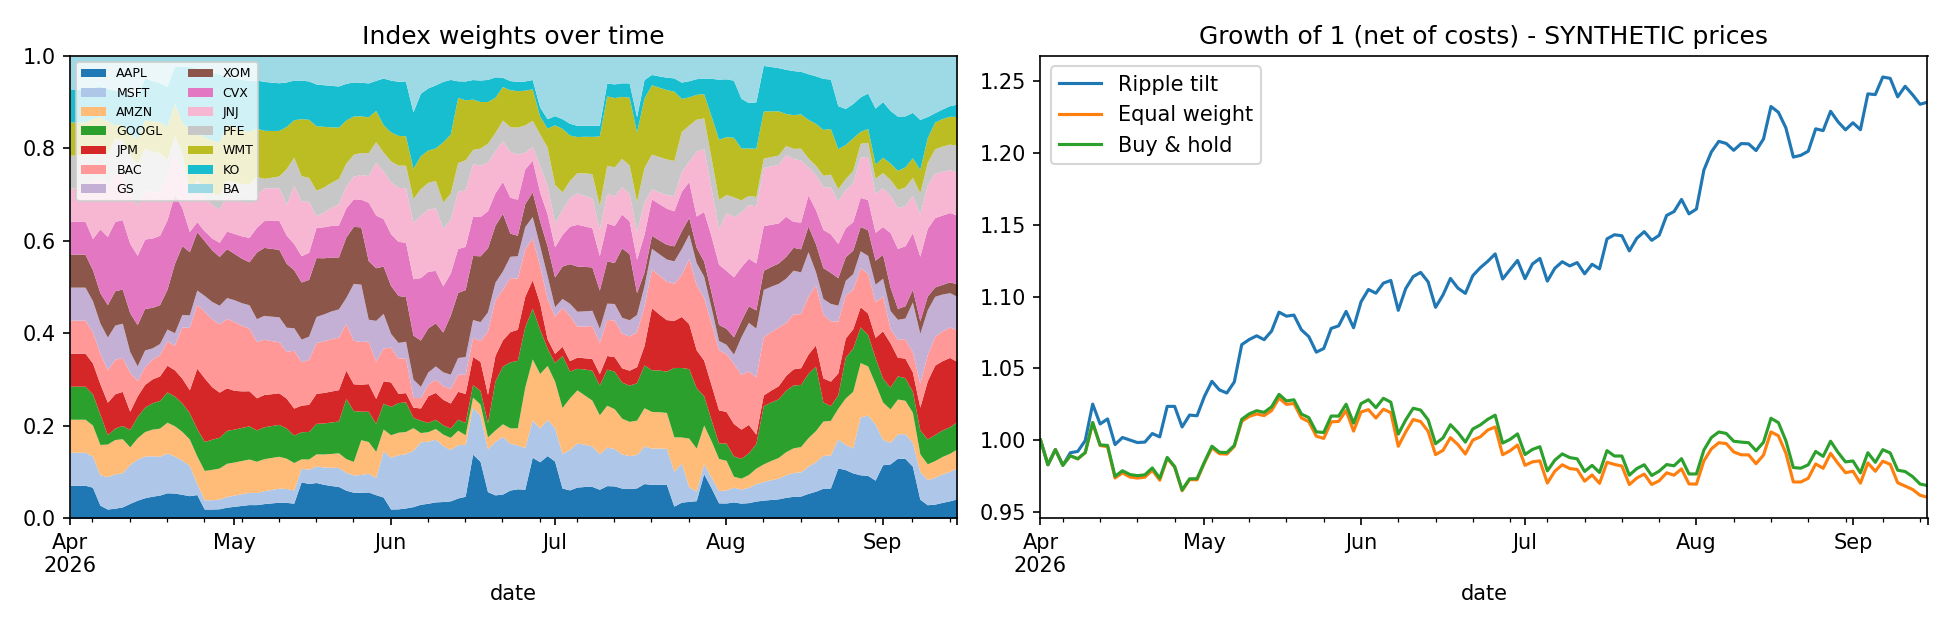
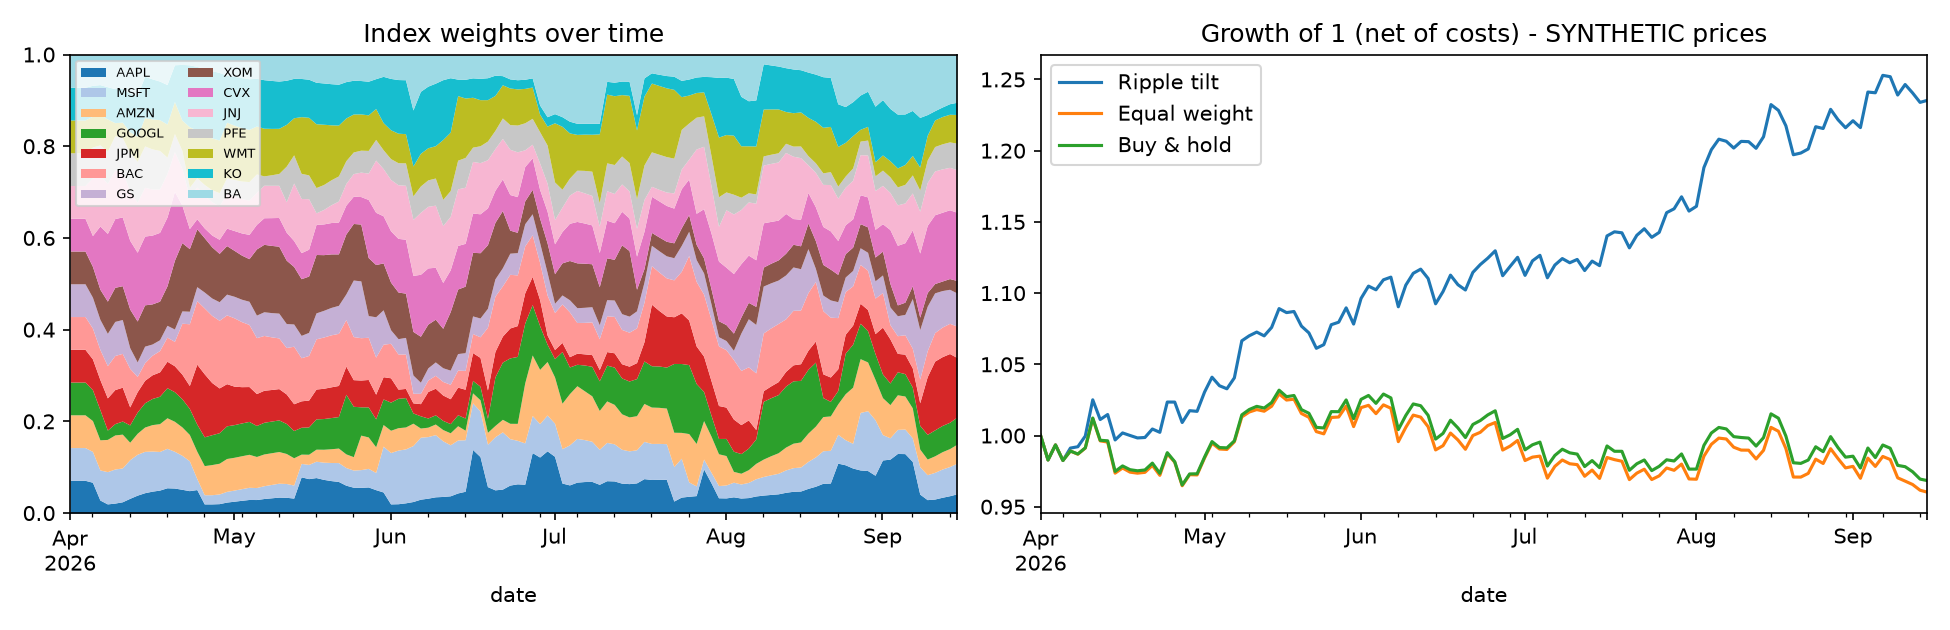
engine write operation is tuned

diff --git a/src/engine/engine.py b/src/engine/engine.py
@@ -4,6 +4,7 @@ Usage:  python -m src.engine.engine [--model lexicon|transformer]
 Output: data/signals.jsonl   (one JSON object per signal)
         data/impact_calibration.csv
 """
+
 import argparse, json
 import numpy as np, pandas as pd
 from src.config import DATA, UNIVERSE
@@ -17,9 +18,18 @@ def ingest(paths) -> pd.DataFrame:
     for p in paths:
         df = pd.read_csv(p)
         df["timestamp"] = pd.to_datetime(df["timestamp"])
-        frames.append(df[["id", "timestamp", "source", "text"]] if "id" in df else
-                      df.assign(id=[f"{p.stem}{i}" for i in range(len(df))])[["id", "timestamp", "source", "text"]])
-    return pd.concat(frames, ignore_index=True).sort_values("timestamp").reset_index(drop=True)
+        frames.append(
+            df[["id", "timestamp", "source", "text"]]
+            if "id" in df
+            else df.assign(id=[f"{p.stem}{i}" for i in range(len(df))])[
+                ["id", "timestamp", "source", "text"]
+            ]
+        )
+    return (
+        pd.concat(frames, ignore_index=True)
+        .sort_values("timestamp")
+        .reset_index(drop=True)
+    )
 
 
 # ---------- 2-3. analysis ----------
@@ -30,24 +40,54 @@ def analyse(raw: pd.DataFrame, analyzer: Analyzer) -> pd.DataFrame:
         s, c, terms = analyzer.sentiment(r.text)
         et, ec = analyzer.event(r.text)
         for e in ents:
-            rows.append(dict(id=r.id, timestamp=r.timestamp, source=r.source, entity=e, sentiment=s, event=et,
-                             confidence=round(0.6 * c + 0.4 * ec, 3), evidence=r.text, reasoning=terms))
+            rows.append(
+                dict(
+                    id=r.id,
+                    timestamp=r.timestamp,
+                    source=r.source,
+                    entity=e,
+                    sentiment=s,
+                    event=et,
+                    confidence=round(0.6 * c + 0.4 * ec, 3),
+                    evidence=r.text,
+                    reasoning=terms,
+                )
+            )
     return pd.DataFrame(rows)
 
 
-def run(model="lexicon", prices=None, raw_paths=None, calibrate_on=None, save=True, out_name="signals.jsonl"):
+def run(
+    model="lexicon",
+    prices=None,
+    raw_paths=None,
+    calibrate_on=None,
+    save=True,
+    out_name="signals.jsonl",
+):
     raw = ingest(raw_paths or [DATA / "news.csv", DATA / "tweets.csv"])
     sig = analyse(raw, Analyzer(model))
-    prices = prices if prices is not None else pd.read_csv(DATA / "prices.csv", index_col=0, parse_dates=True)
-    base = calibrate(calibrate_on if calibrate_on is not None else sig, prices, save=save)
-    sig["impact"] = [signal_impact(base[e], s, c) for e, s, c in zip(sig.event, sig.sentiment, sig.confidence)]
+    prices = (
+        prices
+        if prices is not None
+        else pd.read_csv(DATA / "prices.csv", index_col=0, parse_dates=True)
+    )
+    base = calibrate(
+        calibrate_on if calibrate_on is not None else sig, prices, save=save
+    )
+    sig["impact"] = [
+        signal_impact(base[e], s, c)
+        for e, s, c in zip(sig.event, sig.sentiment, sig.confidence)
+    ]
     sig["impact_base"] = sig.event.map(base)
+
+    
     if save:
-        with open(DATA / out_name, "w") as f:
+        with open(DATA / out_name, "w", encoding="utf-8") as f:
             for r in sig.to_dict("records"):
                 r["timestamp"] = r["timestamp"].isoformat()
                 f.write(json.dumps(r, ensure_ascii=False) + "\n")
     return sig, base
+
 
 
 def load_signals(name="signals.jsonl") -> pd.DataFrame:
@@ -68,17 +108,36 @@ def daily_scores(sig: pd.DataFrame, dates) -> pd.DataFrame:
         past = s[s.day <= d]
         if past.empty:
             continue
-        age = np.array([len(pd.bdate_range(x, d)) - 1 for x in past.day])  # trading-day age
+        age = np.array(
+            [len(pd.bdate_range(x, d)) - 1 for x in past.day]
+        )  # trading-day age
         past = past.assign(decay=[decay_weight(a, e) for a, e in zip(age, past.event)])
         past["contrib"] = past.sentiment * past.w * past.decay
         for tk, g in past.groupby("entity"):
-            n_soc_recent = ((g.source == "twitter") & (g.day >= d - pd.Timedelta(days=2))).sum()
+            n_soc_recent = (
+                (g.source == "twitter") & (g.day >= d - pd.Timedelta(days=2))
+            ).sum()
             news = float(np.tanh(g[g.source == "news"].contrib.sum()))
             soc = float(np.tanh(0.5 * g[g.source == "twitter"].contrib.sum()))
-            comb = 0.65 * news + 0.35 * soc if (news != 0 and soc != 0) else (news if news != 0 else 0.6 * soc)
+            comb = (
+                0.65 * news + 0.35 * soc
+                if (news != 0 and soc != 0)
+                else (news if news != 0 else 0.6 * soc)
+            )
             div = soc - news
-            out.append(dict(date=d, ticker=tk, news=news, social=soc, score=comb, divergence=div,
-                            rumor_flag=bool(soc <= -0.45 and div <= -0.35 and n_soc_recent >= 3)))
+            out.append(
+                dict(
+                    date=d,
+                    ticker=tk,
+                    news=news,
+                    social=soc,
+                    score=comb,
+                    divergence=div,
+                    rumor_flag=bool(
+                        soc <= -0.45 and div <= -0.35 and n_soc_recent >= 3
+                    ),
+                )
+            )
     return pd.DataFrame(out)
 
 

diff --git a/run_all.py b/run_all.py
@@ -1,9 +1,3 @@
-"""One-command pipeline:  python run_all.py
-1. generate synthetic data (skipped if /data already populated; use --regen to force)
-2. NLP engine  -> data/signals.jsonl + impact_calibration.csv
-3. Module A    -> results/backtest.csv, weights.csv, docs/module_a.png
-4. Module B    -> results/stress_*.csv, docs/module_b.png, replay timelines
-"""
 import argparse, json
 import numpy as np, pandas as pd
 import matplotlib; matplotlib.use("Agg")
@@ -13,6 +7,13 @@ from src import data_gen
 from src.engine.engine import run, load_signals, daily_scores
 from src.modules.rebalancer import backtest_report
 from src.modules import stress as S
+
+"""One-command pipeline:  python run_all.py
+1. generate synthetic data (skipped if /data already populated; use --regen to force)
+2. NLP engine  -> data/signals.jsonl + impact_calibration.csv
+3. Module A    -> results/backtest.csv, weights.csv, docs/module_a.png
+4. Module B    -> results/stress_*.csv, docs/module_b.png, replay timelines
+"""
 
 RES = ROOT / "results"
 

diff --git a/README.md b/README.md
@@ -1,11 +1,5 @@
 # Ripple: A Single Text-Intelligence Engine Powering Fast and Slow Risk Decisions - S&P Global & Crisil Campus Hackathon
 
-**Candidate Name:** <Your Full Name>
-**College Email ID:** <your_id@college.ac.in>
-**College / Campus:** <Your College Name>
-**Demo Video Link:** <YouTube unlisted link>
-**Slide Deck Link (if hosted externally):** not required - the deck is at `docs/presentation.pdf`
-
 ## 1. Project Overview / Problem Statement & Approach
 
 Markets react to headlines and social chatter within minutes, while risk teams still read most of it by hand. Ripple closes that gap with one **AI/NLP risk engine** that reads text from two separate channels (news and social posts) and turns each item into a structured signal: a **sentiment score from -1 to 1**, an **event category**, and an **impact rating from 1 to 10**. Every signal also includes a confidence value, the sentence it was based on and the key terms behind the decision. Results are saved to `data/signals.jsonl` and exposed through a FastAPI service.
@@ -59,8 +53,8 @@ Key caveats:
 Runtime: Python 3.10+ (tested on 3.12), Linux.
 
 ```bash
-git clone <your-repo-url>
-cd <repo-folder>
+git clone https://github.com/Veedushi2101/hackathon_naukri
+cd hackathon_naukri
 pip install -r requirements.txt
 python run_all.py                      # engine + Module A backtest + Module B stress + replays (~20 s)
 python -m src.make_docs                # optional: rebuild docs/presentation.pdf and architecture.png
@@ -102,5 +96,3 @@ src/api.py            FastAPI               src/dashboard.py  Streamlit
 src/make_docs.py      deck + diagram        src/fetch_real_data.py  optional yfinance loader
 data/  results/  docs/  tests/
 ```
-
-*AI tools assisted in building this project; the author understands and can explain every design decision.*
